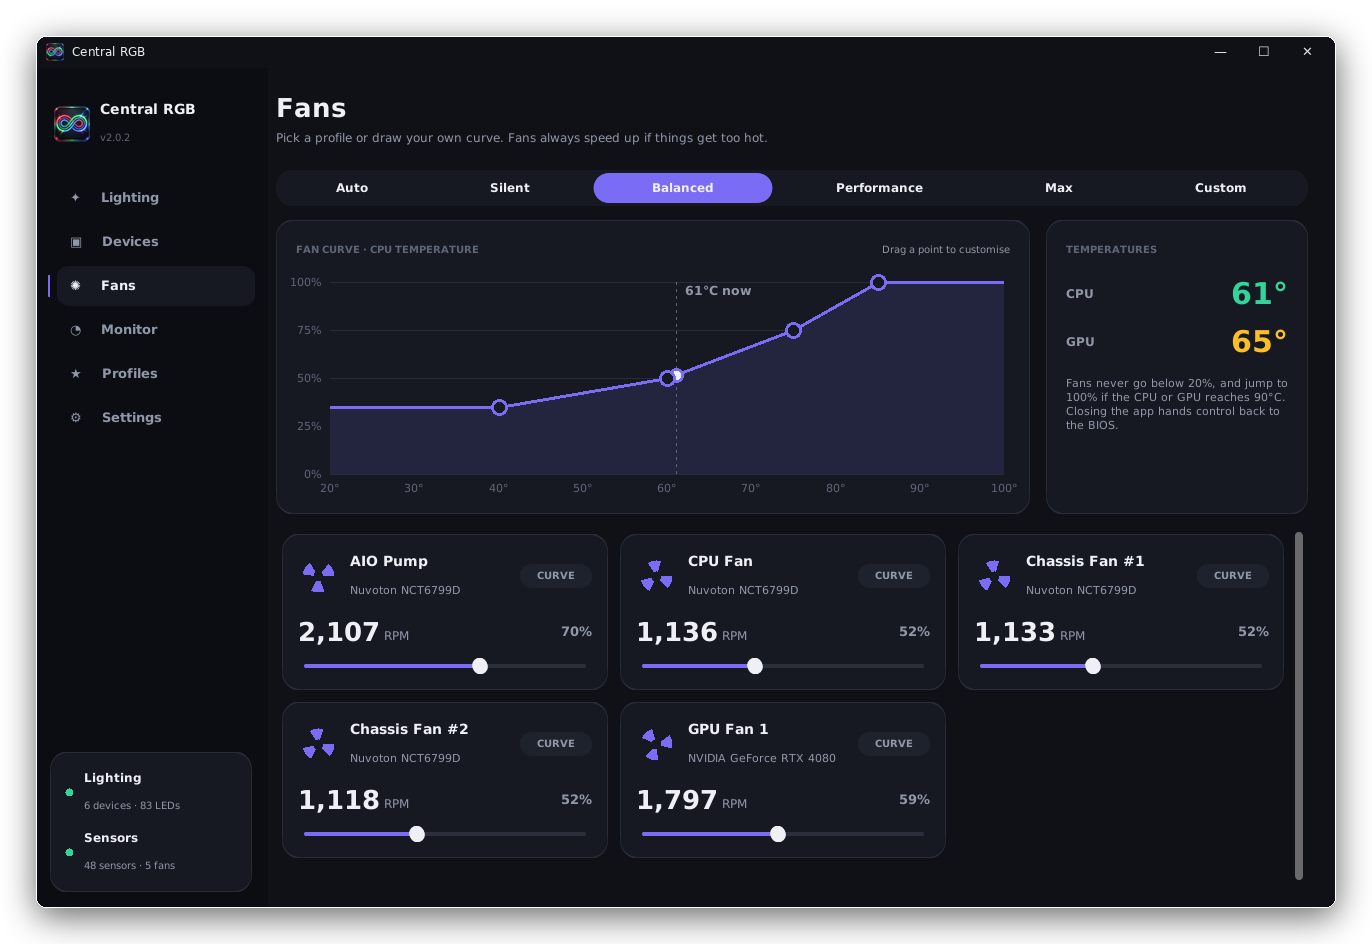
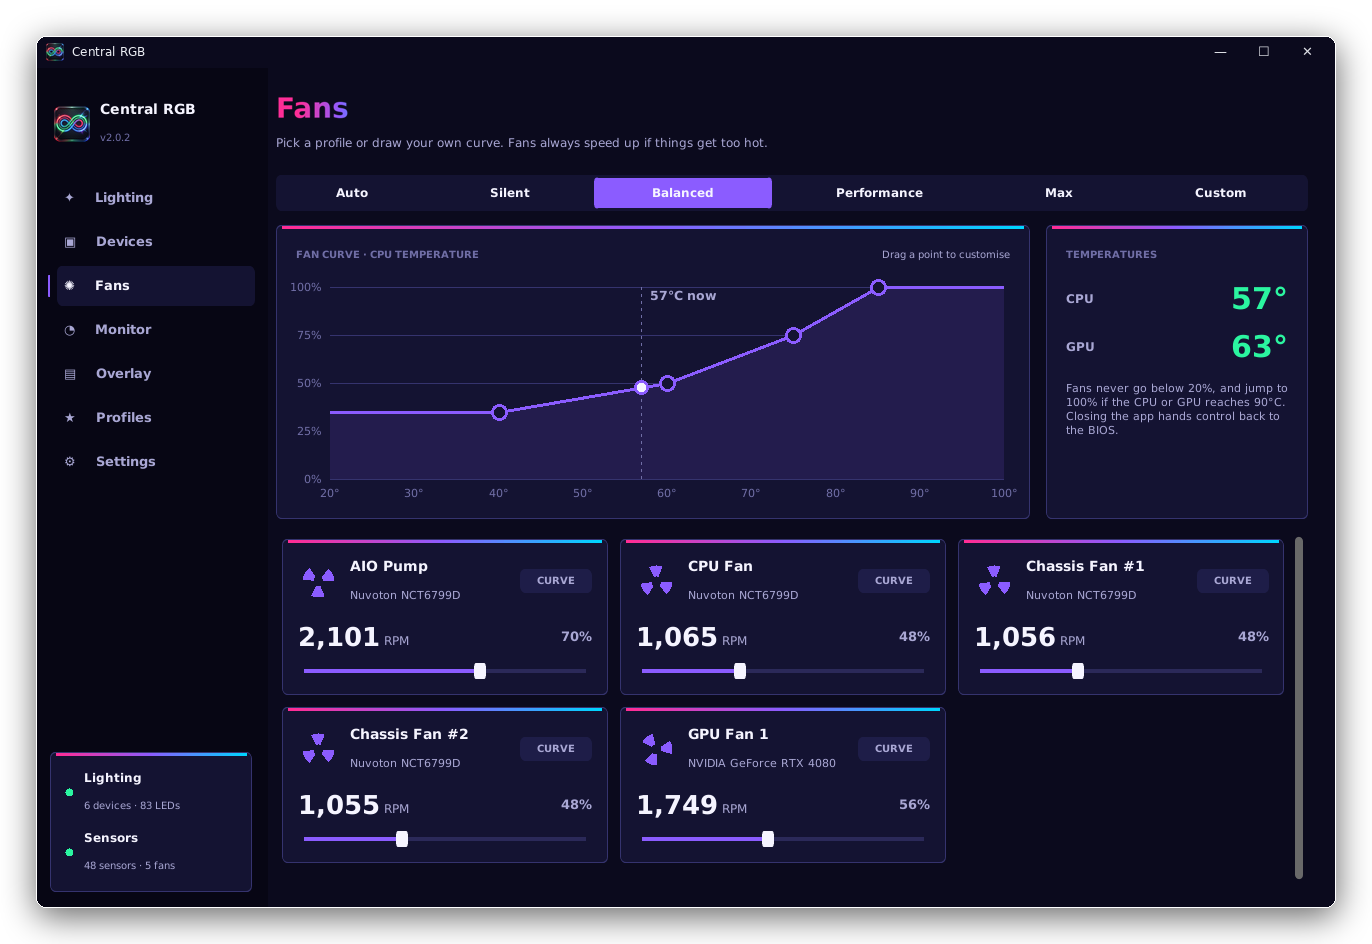
README: Aurora screenshots and FPS overlay docs

diff --git a/README.md b/README.md
@@ -11,7 +11,8 @@ A free and open-source Windows desktop app that controls **all the RGB lighting 
 - **Fan control** with Silent, Balanced, Performance and Max profiles, or a **custom fan curve you drag into shape**, with built-in safety limits
 - **System monitor**: live CPU, GPU and memory gauges, network and storage graphs, and an **Advanced** view with every hardware sensor and full system details
 - **Profiles** to save your favorite looks and switch between them in one click
-- **Clean dark interface**: a high-contrast "Midnight" theme, a title bar that blends into the app on Windows 11, an optional accent that matches your lighting, and an adjustable window opacity
+- **In-game FPS overlay**: FPS, 1% low, frame time and CPU/GPU temperatures on top of your games, measured with Intel PresentMon (nothing is injected into the game)
+- **Vivid "Aurora" interface**: layered indigo panels with pink, violet and cyan accents, squared corners, a startup animation and a slightly translucent window
 - **Starts with Windows** (optional) and reapplies your lighting and fan profile at login
 - **Normal Windows installer**: choose where to install it, and get a desktop shortcut and an uninstaller
 
@@ -85,8 +86,8 @@ You can remove it separately from *Settings → Apps*.
     <td><img src="assets/screenshots/settings.png" alt="Settings page"><br><b>Settings</b>: system check, accent color, opacity, sensor and startup options, and an activity log</td>
   </tr>
   <tr>
+    <td><img src="assets/screenshots/overlay.png" alt="Overlay page"><br><b>Overlay</b>: in-game FPS and temperature readout with position, size and item options</td>
     <td><img src="assets/screenshots/profiles.png" alt="Profiles page"><br><b>Profiles</b>: save a look and load it again in one click</td>
-    <td align="center"><img src="assets/icon.png" alt="Central RGB icon" width="180"><br><b>Central RGB</b></td>
   </tr>
 </table>
 
@@ -113,7 +114,7 @@ flowchart LR
 
 A [CustomTkinter](https://github.com/TomSchimansky/CustomTkinter) app with a sidebar and six pages. Pieces like the color wheel, LED strips, fan curve editor, ring gauges and graphs are custom-drawn on canvases, so they can animate smoothly.
 
-- A deep "Midnight" palette with one indigo-violet accent. Switch **Settings → Accent color** to **Match lighting** and the buttons, sliders and switches take on your lighting color, toned down so text stays readable.
+- A layered "Aurora" palette with a pink-to-cyan signature gradient. Switch **Settings → Accent color** to **Match lighting** and the buttons, sliders and switches take on your lighting color, toned down so text stays readable.
 - Slow work (starting OpenRGB, downloads, the system check) runs on background threads. Results come back to the window through a queue that's checked every 100 ms, so the window never freezes.
 - Everything you change is saved instantly to `%APPDATA%\CentralRGB\settings.json`.
 
@@ -207,6 +208,7 @@ EMERGENCY_TEMP = 90   # CPU or GPU at 90 °C or more -> every fan to 100 %
 | Fans | Profiles, custom curve, live CPU and GPU temperatures, a manual slider per fan (tap **MANUAL ↺** to go back to the curve) |
 | Monitor → Overview | CPU / GPU / RAM gauges and graphs, network up/down, drive usage, uptime, power draw |
 | Monitor → Advanced | Search and filter every sensor, copy full system details to the clipboard |
+| Overlay | Turn on the in-game overlay, choose its corner and size, and pick what it shows (FPS, 1% low, frame time, CPU, GPU). It works over windowed and borderless-fullscreen games; exclusive fullscreen can cover it. |
 | Profiles | Save the current look under a name, then load or delete it later |
 | Settings | System check, accent color (Central or match lighting), opacity, RAM temperature reading, frosted glass (experimental), start with Windows, reapply lighting on launch, activity log |
 
@@ -263,6 +265,7 @@ CentralRGB/
 ├── central_rgb.py        # window, pages and custom widgets
 ├── rgb_engine.py         # OpenRGB setup, lighting effects, system check, settings
 ├── hw_monitor.py         # LibreHardwareMonitor sensors, fan logic, system details
+├── fps_overlay.py        # in-game FPS overlay (PresentMon)
 ├── win_effects.py        # title bar colors, opacity, experimental glass
 ├── central_rgb.ico/.png  # app icon
 ├── central_rgb.iss       # Inno Setup installer script
@@ -280,6 +283,7 @@ CentralRGB/
 |---|---|
 | [OpenRGB](https://openrgb.org) | Talking to RGB hardware. GPL-2.0, downloaded on first run and run as a separate program, not bundled. |
 | [LibreHardwareMonitor](https://github.com/LibreHardwareMonitor/LibreHardwareMonitor) | Sensors and fan control. MPL-2.0, downloaded on first run, not bundled. |
+| [PresentMon](https://github.com/GameTechDev/PresentMon) | FPS measurement for the overlay. MIT, downloaded the first time the overlay is turned on. |
 | [PawnIO](https://pawnio.eu) | Low-level hardware access driver. The setup downloads and installs it if missing. |
 | [CustomTkinter](https://github.com/TomSchimansky/CustomTkinter) | Modern widgets |
 | [openrgb-python](https://github.com/jath03/openrgb-python) | OpenRGB SDK client |
